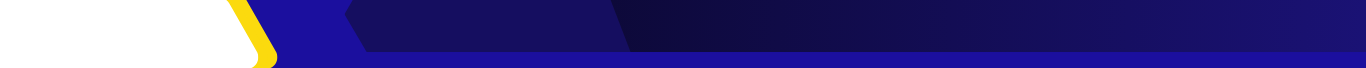
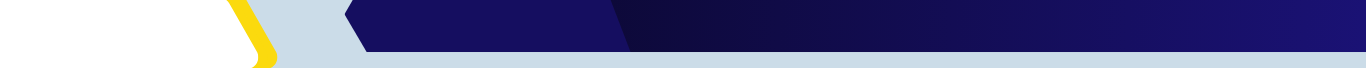
cleaned qsd css and fix header and bgd color

Changed region(s): [[0.1537, 0.0, 1.0, 1.0]]

diff --git a/assets/css/display.css b/assets/css/display.css
@@ -1,6 +1,7 @@
 body {
 	font-family: "Open Sans", sans-serif;
-	background: #1b0f9e;
+	/* background: #1b0f9e; */
+	background: #cbdce8;
 	height: 100vh;
 	width: 100vw;
 	margin: 0;
@@ -8,7 +9,8 @@ body {
 }
 .header {
 	height: 8vh;
-	background-color: #1b0f9e;
+	/* background-color: #1b0f9e; */
+	background-color: #cbdce8;
 	background-image: url("../resources/header.png");
 	background-size: cover;
 	background-repeat: no-repeat;
@@ -58,7 +60,6 @@ body {
 .main {
 	height: 92vh;
 	width: 100%;
-	background-color: #1b0f9e;
 }
 .container {
 	display: flex;
@@ -71,7 +72,6 @@ body {
 	width: 100%;
 }
 .leftCol {
-	border: 1px solid #1b0f9e;
 	display: block;
 	flex-grow: 1;
 	flex-shrink: 3;
@@ -99,14 +99,14 @@ body {
 	flex-basis: auto;
 	align-self: auto;
 	order: 0;
-	border: 1px solid #1b0f9e;
+	border: 3px solid #1b0f9e;
 
 	background-color: white;
 	text-align: center;
 	font-size: 2rem;
 	font-family: Arial, Helvetica, sans-serif;
 	font-weight: bold;
-	padding: 0px;
+	padding: 5px;
 	border-radius: 5px;
 	margin-left: 5px;
 	margin-right: 5px;
@@ -118,7 +118,6 @@ body {
 	flex-basis: auto;
 	align-self: auto;
 	order: 0;
-	border: 1px solid #1b0f9e;
 	height: 22vh;
 }
 .firstRowCard {
@@ -153,7 +152,6 @@ body {
 	flex-basis: auto;
 	align-self: stretch;
 	order: 0;
-	border: 1px solid #1b0f9e;
 	width: 50%;
 }
 .queueCard1Contents,
@@ -174,7 +172,9 @@ body {
 	flex-basis: auto;
 	align-self: auto;
 	order: 0;
-	border: 1px solid #1b0f9e;
+	/* border: 3px solid #1b0f9e; */
+	border: 3px solid #1b0f9e;
+	border-right: none;
 	text-align: center;
 	align-content: center;
 	background-color: #150e60;
@@ -193,7 +193,9 @@ body {
 	flex-basis: auto;
 	align-self: auto;
 	order: 0;
-	border: 1px solid #1b0f9e;
+	/* border: 3px solid #1b0f9e; */
+	border: 3px solid #1b0f9e;
+	border-left: none;
 	text-align: center;
 	align-content: center;
 	background-color: white;
@@ -213,7 +215,6 @@ body {
 	flex-basis: auto;
 	align-self: auto;
 	order: 0;
-	border: 1px solid #1b0f9e;
 	height: 34vh;
 }
 .secondRowCard {
@@ -248,7 +249,6 @@ body {
 	flex-basis: auto;
 	align-self: stretch;
 	order: 0;
-	border: 1px solid #1b0f9e;
 	width: 50%;
 }
 .queueCard3Contents,
@@ -282,7 +282,6 @@ body {
 	flex-basis: auto;
 	align-self: stretch;
 	order: 0;
-	border: 1px solid #1b0f9e;
 	width: 50%;
 }
 .queueCard5Contents,
@@ -303,7 +302,6 @@ body {
 	flex-basis: auto;
 	align-self: stretch;
 	order: 0;
-	border: 1px solid #1b0f9e;
 	width: 50%;
 }
 .dummyCardContents {
@@ -314,12 +312,7 @@ body {
 	align-items: normal;
 	align-content: normal;
 	height: 100%;
-}
-.dummy-window-box {
-	color: #1b0f9e;
-}
-.dummy-queueNum-box {
-	color: #1b0f9e;
+	color: #cbdce8;
 }
 
 .thirdRow {
@@ -329,7 +322,6 @@ body {
 	flex-basis: auto;
 	align-self: auto;
 	order: 0;
-	border: 1px solid #1b0f9e;
 	height: 34vh;
 }
 .thirdRowCard {
@@ -362,7 +354,6 @@ body {
 	flex-basis: auto;
 	align-self: stretch;
 	order: 0;
-	border: 1px solid #1b0f9e;
 	width: 50%;
 }
 .queueCard7Contents,
@@ -395,7 +386,6 @@ body {
 	flex-basis: auto;
 	align-self: stretch;
 	order: 0;
-	border: 1px solid #1b0f9e;
 	width: 50%;
 }
 .queueCard9Contents {
@@ -409,7 +399,6 @@ body {
 }
 
 .rightCol {
-	border: 1px solid #1b0f9e;
 	display: block;
 	flex-grow: 1;
 	flex-shrink: 3;
@@ -435,7 +424,6 @@ body {
 	flex-basis: auto;
 	align-self: auto;
 	order: 0;
-	/* border: 1px solid #1b0f9e; */
 	height: 10vh;
 	background-color: #150e60;
 }
@@ -462,7 +450,6 @@ body {
 	flex-basis: auto;
 	align-self: auto;
 	order: 0;
-	border: 1px solid #1b0f9e;
 	height: 60vh;
 }
 
@@ -502,7 +489,6 @@ body {
 	flex-basis: auto;
 	align-self: auto;
 	order: 0;
-	/* border: 1px solid #1b0f9e; */
 	height: 10vh;
 	background-color: #150e60;
 }
@@ -522,21 +508,15 @@ body {
 	display: flex;
 	flex-grow: 1;
 	order: 0;
-	/* border: 1px solid #1b0f9e; */
 	justify-content: center;
 }
 .queueCard12 {
 	display: flex;
 	flex-grow: 1;
 	order: 0;
-	/* border: 1px solid #1b0f9e; */
 	justify-content: center;
 }
 
-/* .philippine-date {
-}
-.clock {
-} */
 .rFourthRow {
 	display: block;
 	flex-grow: 0;
@@ -544,7 +524,6 @@ body {
 	flex-basis: auto;
 	align-self: auto;
 	order: 0;
-	/* border: 1px solid #1b0f9e; */
 	height: 10vh;
 	background-color: #150e60;
 }
@@ -596,25 +575,6 @@ body {
 		transform: translateX(-200%);
 	}
 }
-
-/* #marquee2 {
-            position: relative;
-            white-space: nowrap;
-            animation: marquee2 30s linear infinite;
-        }
-
-        @keyframes marquee2 {
-            0% {
-                transform: translateX(100%);
-            }
-
-            100% {
-                transform: translateX(-100%);
-            }
-        } 
-*/
-
-/* display queuenum animation */
 .hidden {
 	display: none !important;
 }
